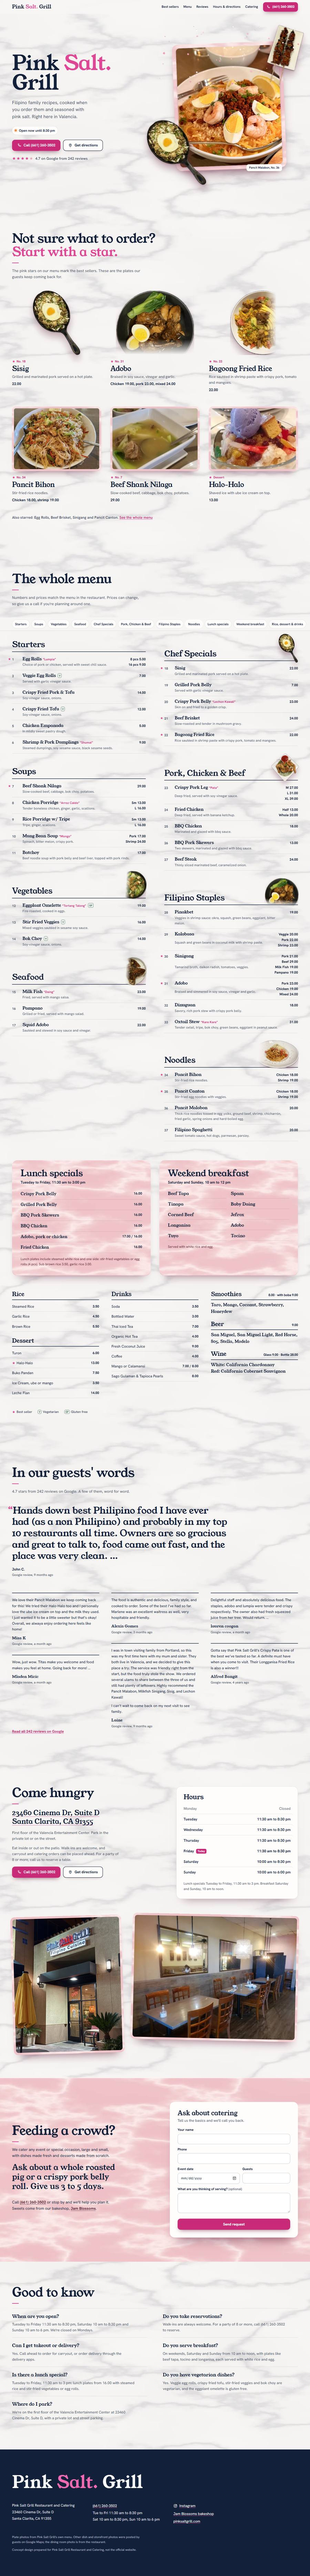
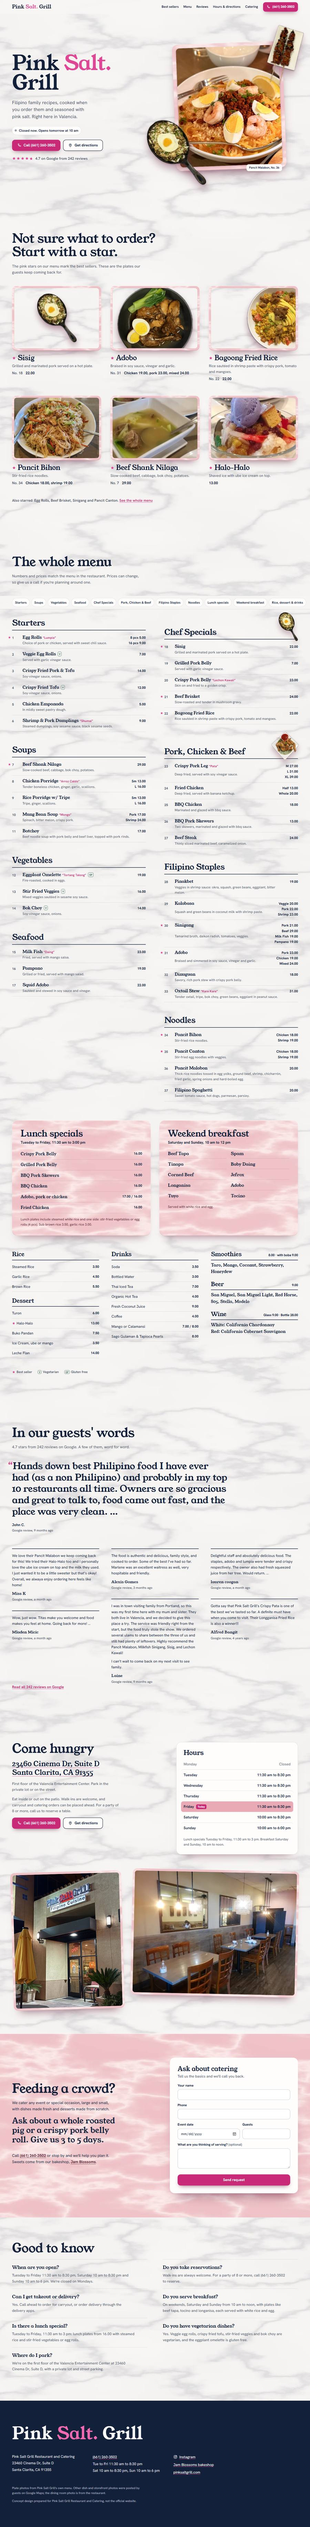
Refresh Pink Salt Grill screenshots

diff --git a/index.html b/index.html
@@ -216,7 +216,7 @@
     <figure class="scroller">
       <figcaption><h2>The whole page</h2><p>Scroll inside the frame to read it top to bottom.</p></figcaption>
       <div class="scroll-frame" tabindex="0" aria-label="Full-page screenshot of the Pink Salt Grill concept site, scrollable">
-        <img src="assets/pinksalt-full.jpg" alt="Full-page screenshot: the marble hero, starred best sellers, the full priced menu with lunch and breakfast, guest reviews, hours and photos, catering request form, questions and footer" width="900" height="7468" loading="lazy">
+        <img src="assets/pinksalt-full.jpg" alt="Full-page screenshot: the marble hero, starred best sellers, the full priced menu with lunch and breakfast, guest reviews, hours and photos, catering request form, questions and footer" width="900" height="7326" loading="lazy">
       </div>
     </figure>
   </div>
